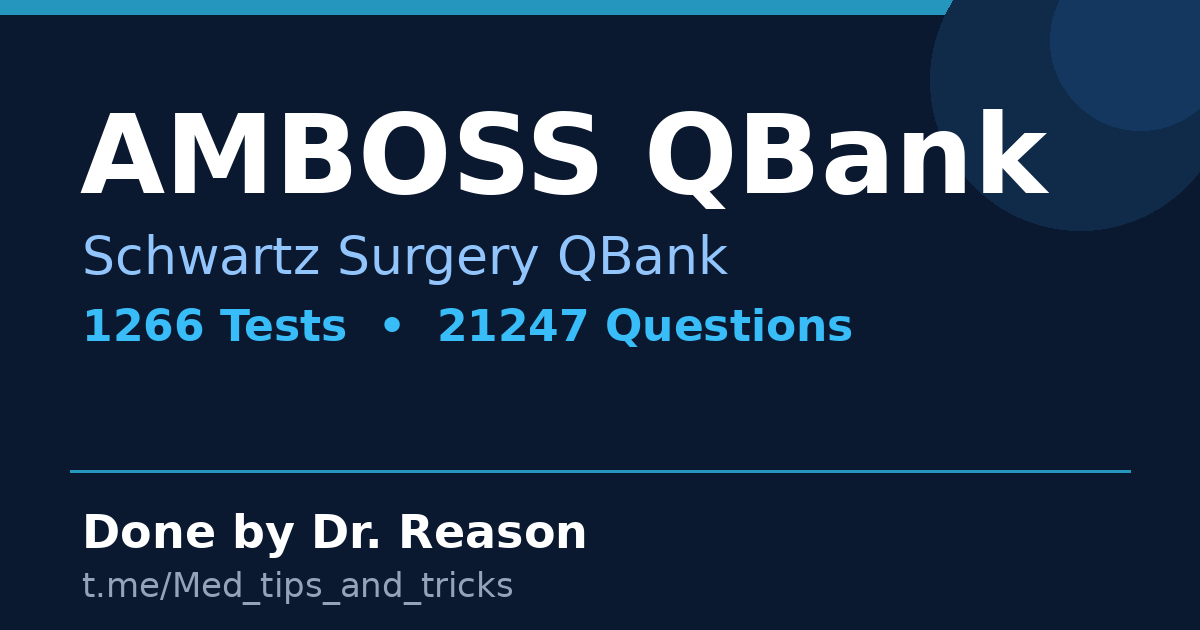
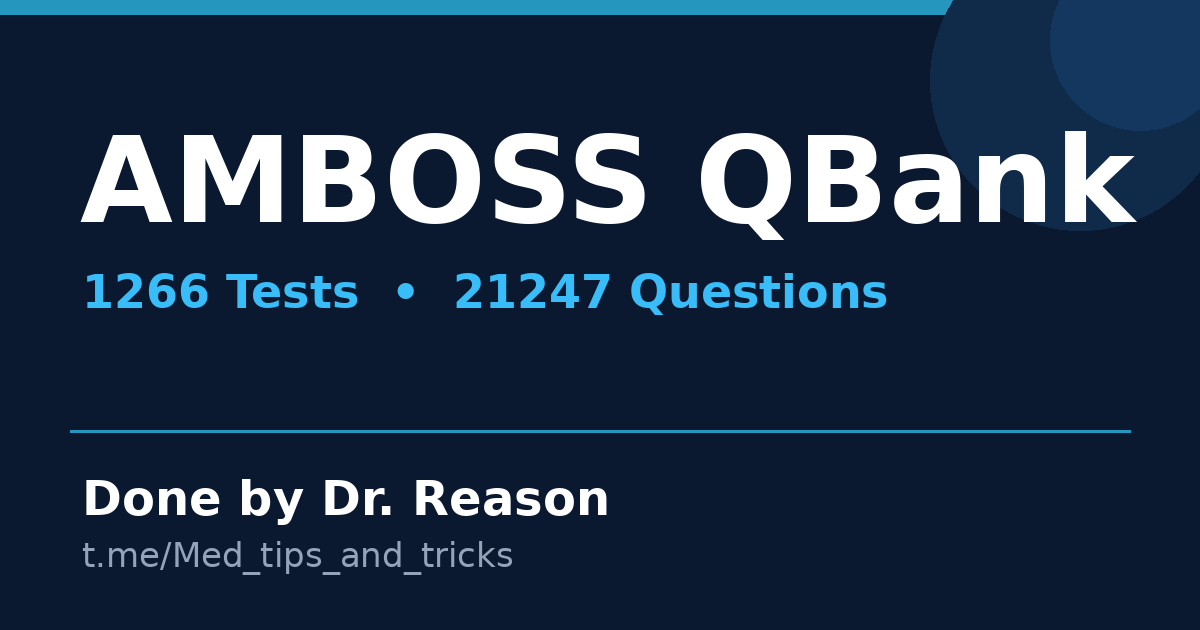
Remove Schwartz branding, keep AMBOSS QBank

Changed region(s): [[0.0617, 0.1508, 0.9558, 0.5429], [0.0617, 0.7238, 0.925, 0.9651], [0.0617, 0.6635, 0.925, 0.6937]]

diff --git a/build_site.py b/build_site.py
@@ -80,6 +80,10 @@ def main() -> None:
         print("Source carries the Dr. Reason branding.", flush=True)
     # Telegram links: normalize any handle to the channel.
     source = re.sub(r"https://t\.me/[A-Za-z0-9_]+", "https://t.me/Med_tips_and_tricks", source)
+    # Site branding: the bank is AMBOSS, not Schwartz (Schwartz is only the
+    # textbook the questions came from). Only the heading phrase is replaced;
+    # the clinical eponym "Schwartze sign" in question content is untouched.
+    source = source.replace("Schwartz Surgery QBank", "Surgery QBank")
     if source.count(ARRAY_MARKER) != 1:
         raise RuntimeError("Could not uniquely locate the source TESTS_LIST array")
 
@@ -320,14 +324,14 @@ async function updateBuilder() {
         page = re.sub(r'<meta[^>]*(?:property="og:[^"]*"|name="twitter:[^"]*")[^>]*>\n?', "", page)
     og_tags = (
         '<meta property="og:type" content="website">\n'
-        '<meta property="og:title" content="AMBOSS QBank — Schwartz Surgery QBank">\n'
+        '<meta property="og:title" content="AMBOSS QBank">\n'
         '<meta property="og:description" content="1266 tests, 21247 questions. Done by Dr. Reason.">\n'
         '<meta property="og:url" content="https://aseel-xcoder.github.io/amboss-qbank-aseel-v2/">\n'
         '<meta property="og:image" content="https://aseel-xcoder.github.io/amboss-qbank-aseel-v2/preview.png">\n'
         '<meta property="og:image:width" content="1200">\n'
         '<meta property="og:image:height" content="630">\n'
         '<meta name="twitter:card" content="summary_large_image">\n'
-        '<meta name="twitter:title" content="AMBOSS QBank — Schwartz Surgery QBank">\n'
+        '<meta name="twitter:title" content="AMBOSS QBank">\n'
         '<meta name="twitter:description" content="1266 tests, 21247 questions. Done by Dr. Reason.">\n'
         '<meta name="twitter:image" content="https://aseel-xcoder.github.io/amboss-qbank-aseel-v2/preview.png">\n'
     )
